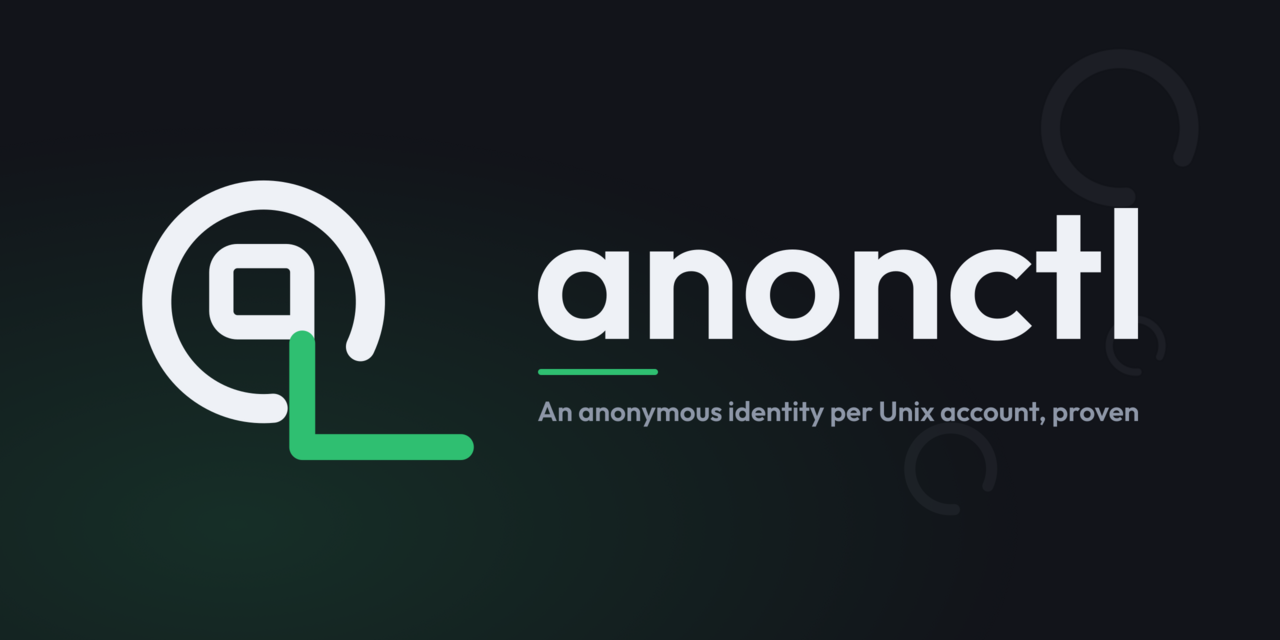
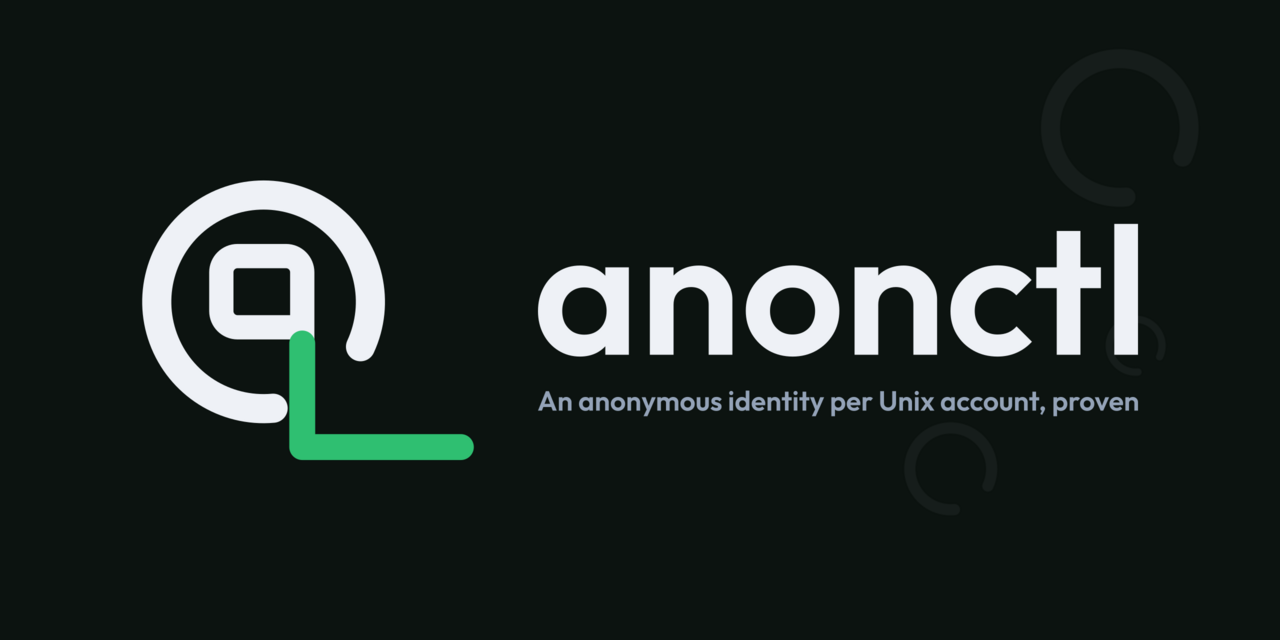
brand: move the card off memonaut's layout
Sibling project memonaut owns amber on a #12141a plate with a bottom-left
radial accent glow and a 120x6 accent rule under the wordmark. This card
had all four (minus the hue), because both cards followed the same
default layout table and memonaut got there first, so anonctl read as
memonaut in green.

Now: plate #0c1310 (a near-black of its own, distinct from memonaut's
#12141a and netcage's #0d1117), no glow, no accent rule, muted #94a3b8
shared with netcage. Dropping the rule leaves the mark's green path as
the only accent object on the card, which is the stricter stance netcage
takes and the right one. The texture stays ring arcs: this mark's own
motif, where netcage's is lanes and memonaut's is rounded rects.

Type block re-centred on y=320 now that the rule is gone. The mark, the
icon and the palette's accent/ink are unchanged.

Changed region(s): [[0.4062, 0.3125, 0.9062, 0.6875], [0.0938, 0.7188, 0.2812, 0.9062]]

diff --git a/media/README.md b/media/README.md
@@ -30,6 +30,8 @@ Run `./build.sh` to regenerate everything. It is deterministic: two runs produce
 - **The `a`'s descender is short on purpose.** An earlier version ran it further down and the mark read as a **q**; making the spiral flow continuously out of the stem (the way a drawn `@` really is built) read as a **9**. Both are in `concepts/sheet17.png` and `concepts/sheet18.png`.
 - **The green leaves through the ring's gap and crosses the ring nowhere else.** That is the fail-closed shape: one hole, everything else sealed. Routing it across the arc would say the opposite of what the tool does.
 - **The card's safe margin is 40px and nothing crosses it**, including the faint texture rings. One of them originally did.
+- **The card has no accent rule under the wordmark and no accent glow, and the plate is `#0c1310`, not `#12141a`.** All three are deliberate distance from sibling project **memonaut**, which owns amber on a `#12141a` plate with a bottom-left radial glow and a 120x6 accent rule. The first version of this card followed the same default layout table memonaut had followed and came out looking like memonaut in green. Dropping the rule also means the mark's green path is the only accent object anywhere on the card, which is the stricter stance sibling **netcage** takes.
+- **The card texture is ring arcs, this mark's own motif.** netcage's texture is lanes and memonaut's is rounded-rect outlines; reusing either would make this card read as theirs.
 - **`build.sh` fails before rendering if the three files' mark geometry diverges.** The same three path strings live in `logo.svg`, `icon.svg` and `preview.src.svg` because each needs different ink and framing. Do not "simplify" the check away; verify it still fires by perturbing one number and running the build.
 
 ## Palette
@@ -39,10 +41,10 @@ Run `./build.sh` to regenerate everything. It is deterministic: two runs produce
 | Accent (the forced path) | `#2fbf71` |
 | Ink, light background | `#0f172a` |
 | Ink, dark background / card | `#eef1f6` |
-| Card plate | `#12141a` |
-| Muted (tagline) | `#8e97a8` |
+| Card plate | `#0c1310` |
+| Muted (tagline) | `#94a3b8` |
 
-Deliberately **not** Tor purple. anonctl is endpoint-agnostic (Tor is only the default endpoint), so wearing Tor's colour would be a claim the tool does not make.
+Deliberately **not** Tor purple. anonctl is endpoint-agnostic (Tor is only the default endpoint), so wearing Tor's colour would be a claim the tool does not make. It is also clear of the siblings' accents: netcage cyan `#06b6d4`, memonaut amber `#ffb020`, anonseed violet `#8b5cf6`. Per-project accent on a shared dark plate is this family's convention.
 
 ## Type, and how to re-derive it
 
@@ -55,7 +57,7 @@ Solved values (sizes are solved to a measured **ink box**, never to a nominal po
 | `anonctl` | 600 px | `180.9955px` | text `x=532.93 y=338.9` (ink starts x=538) |
 | `An anonymous identity per Unix account, proven` | 600 px | `27.7072px` | text `x=537.45 y=421.03` (ink starts x=538, ink top y=401) |
 
-Both strings are set to the same 600px ink width so the type block has one left edge and one right edge, tied together by the accent rule (120x6 at x=538, y=369).
+Both strings are set to the same 600px ink width so the type block has one left edge and one right edge. There is deliberately no accent rule between them (see above); the shared 600px width is what ties the block together. The two-line block is 192px tall and centred on y=320, like the mark.
 
 Re-derive after any copy change (three iterations converge, since text width is linear in size):
 
